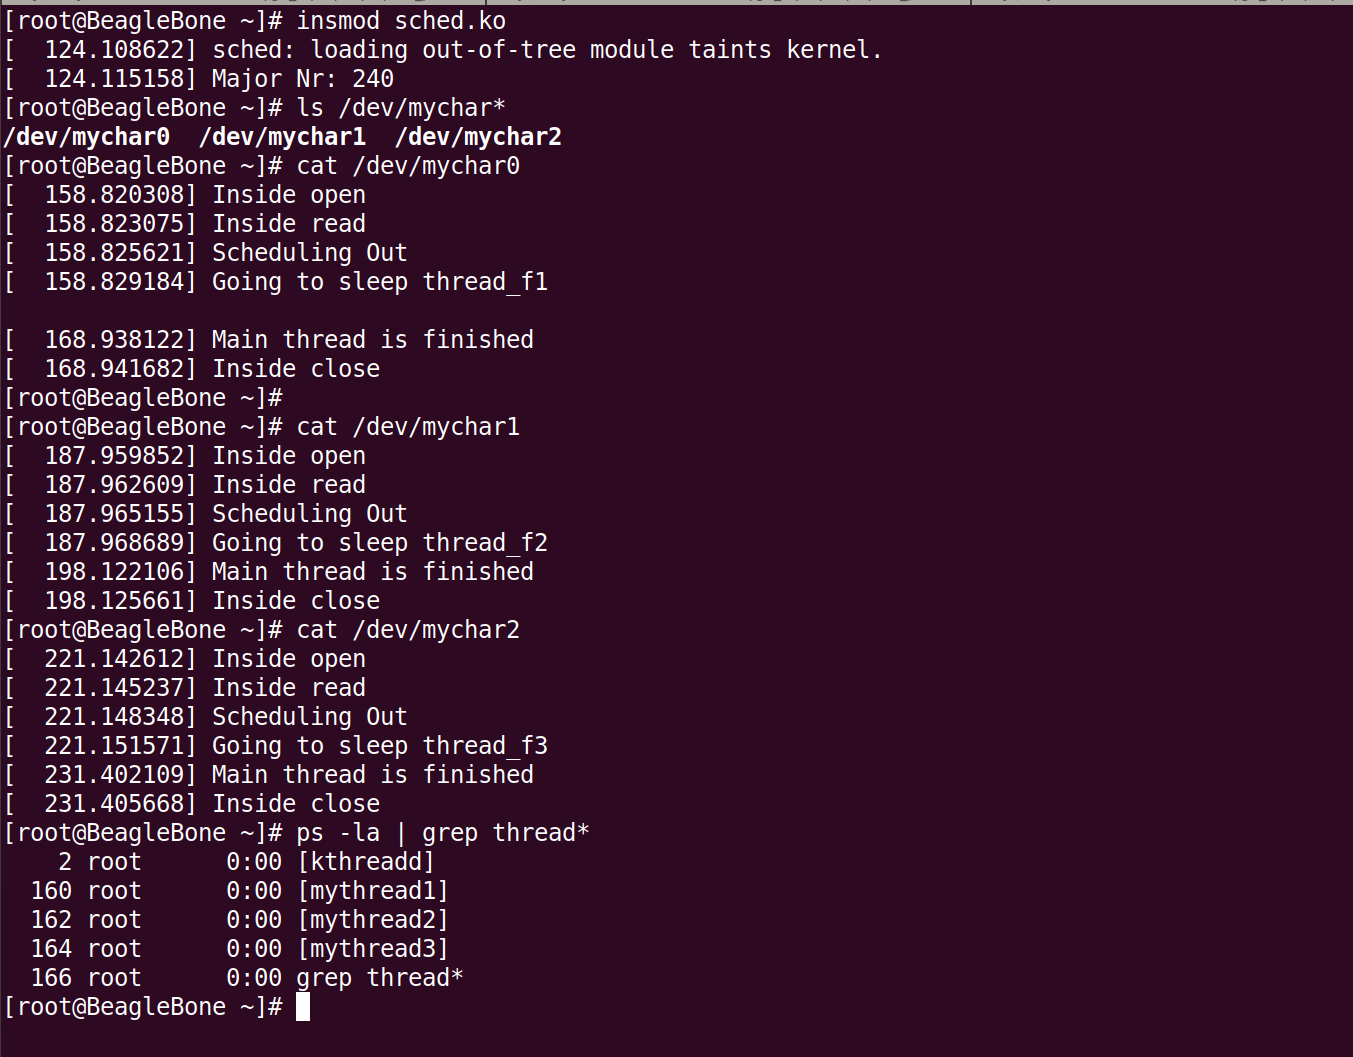
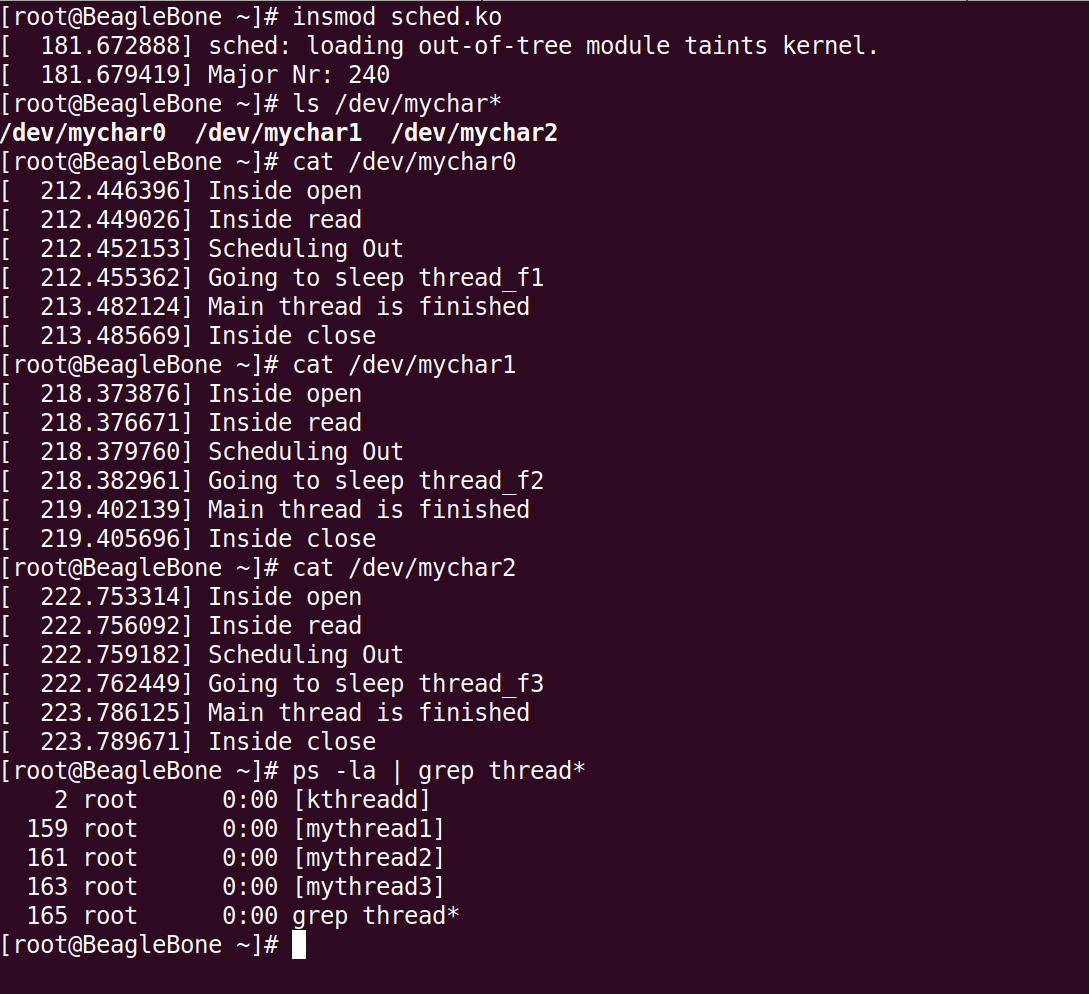
redone Ass05 part 4 with private_data member, took the screenshot again

Changed region(s): [[0.0, 0.0, 1.0, 0.9668]]

diff --git a/P05_process_mm/sched.c b/P05_process_mm/sched.c
@@ -15,6 +15,12 @@
 #define FIRST_MINOR 0
 #define MINOR_CNT 3
 
+typedef struct _dev_data{
+	unsigned int minor;
+	char wake_up_code;
+	unsigned int count;
+} dev_data;
+
 struct proc_dir_entry *my_proc_file;
 char flag = '0';
 static dev_t dev;
@@ -23,16 +29,17 @@ static struct class *cl;
 static struct task_struct *sleeping_task;
 static DECLARE_WAIT_QUEUE_HEAD(wq);  //create the wait queue
 static struct task_struct *thread_st[MINOR_CNT] = {NULL};
-static char wake_up_code[MINOR_CNT] = {'1'};
-
+static dev_data pvt_data[MINOR_CNT];
 
 static int thread_fn(void *used)
 {
-	int idx = *(int *)used;
-	char ch = wake_up_code[idx];
-	printk("Going to sleep thread_f%c\n",ch);
-	wait_event_interruptible(wq, flag == ch);
-	printk(KERN_INFO "Woken Up thread%c flag = %c\n",ch, flag);
+	dev_data *pvt_data = ((dev_data *)(used));
+	char wake_up_code = pvt_data->wake_up_code; //get the wake up code
+	unsigned int idx = pvt_data->minor;
+	
+	printk("Going to sleep thread_f%c\n",wake_up_code);
+	wait_event_interruptible(wq, flag == wake_up_code);
+	printk(KERN_INFO "Woken Up thread%c flag = %c\n",wake_up_code, flag);
 	flag = '0';
 	printk("Woken Up\n");
 	thread_st[idx] = NULL;
@@ -41,28 +48,48 @@ static int thread_fn(void *used)
 
 int open(struct inode *inode, struct file *filp)
 {
+	unsigned int idx;
 	printk(KERN_INFO "Inside open \n");
 	sleeping_task = current;
+	
+	idx = iminor(inode);
+	if(pvt_data[idx].count != 0) //do not allow more than on instance to work
+	{
+		printk(KERN_INFO "Driver in USE \n");
+		return -1;
+	}
+	pvt_data[idx].minor = idx;
+	pvt_data[idx].count += 1;
+
+	filp->private_data = (void*)&pvt_data[idx];
+
 	return 0;
 }
 
 int release(struct inode *inode, struct file *filp) 
 {
+	unsigned int idx;
+	
 	printk (KERN_INFO "Inside close \n");
+	idx = iminor(inode);
+	pvt_data[idx].count -= 1; //reduce count as instance is free
+
 	return 0;
 }
 
 ssize_t read(struct file *filp, char *buff, size_t count, loff_t *offp) 
 {
-	int idx = iminor(filp->f_path.dentry->d_inode); //to get minor number from file descriptor
+	dev_data *pvt_data = ((dev_data *)(filp->private_data));
+	char wake_up_code = pvt_data->wake_up_code; //get the wake up code
+	unsigned int idx = pvt_data->minor;
 
 	printk("Inside read \n");
 	printk("Scheduling Out\n");
 	//TODO 1: Set the task state to TASK_INTERRUPTIBLE
 	
-	thread_st[idx] = kthread_run(thread_fn, &idx, "mythread%c",wake_up_code[idx]);
+	thread_st[idx] = kthread_run(thread_fn, (void*)pvt_data, "mythread%c",wake_up_code);
 
-	ssleep(10);//sleep for 2 minutes
+	ssleep(1);//sleep for 1 sec
 	printk(KERN_INFO "Main thread is finished\n");
 	return 0;
 }
@@ -80,9 +107,9 @@ int write_proc(struct file *file,const char *buffer, size_t count, loff_t *off)
 	printk(KERN_INFO "input is %c\n",flag);
 
 	//TODO 2: Wake up the thread
-	if((flag == '1')||(flag == '2')||(flag == '3'))
+	if((flag >= '1')&& (flag <= '3'))
 	{   /*if flag is 1,2, 3 wake up the corresponding thread*/
-		printk("Sleeping Process%c will be woken up %c\n",flag, flag);
+		printk("Sleeping Process %c will be woken up %c\n",flag, flag);
 		//wake_up_process(sleeping_task);
 		wake_up_interruptible(&wq); //wakeup one interruptable taks
 	}
@@ -113,6 +140,19 @@ static int create_new_proc_entry(void)
 	return 0;
 }
 
+static int init_pvt_data(dev_data *pvt_data)
+{
+	int i;
+	/*static structure init*/
+	for(i=0; i<MINOR_CNT; i++)
+	{
+		pvt_data[i].minor = 0xFFFFFFFF; //initally uninit
+		pvt_data[i].wake_up_code = '1' + (char)i; // '1', '2', '3' for wake up call
+		pvt_data[i].count = 0; //to keep track of acces
+	}
+	
+	return 0;
+}
 int schd_init (void) 
 {
 	int i, j;
@@ -163,10 +203,8 @@ int schd_init (void)
 	
 	
 	/*static structure init*/
-	for(i=0; i<MINOR_CNT; i++)
-	{
-		wake_up_code[i] = '1' + (char)i; //to set wake_up_code = '1', '2', '3'
-	}
+	init_pvt_data(pvt_data);
+	
 	return 0;
 }
 
